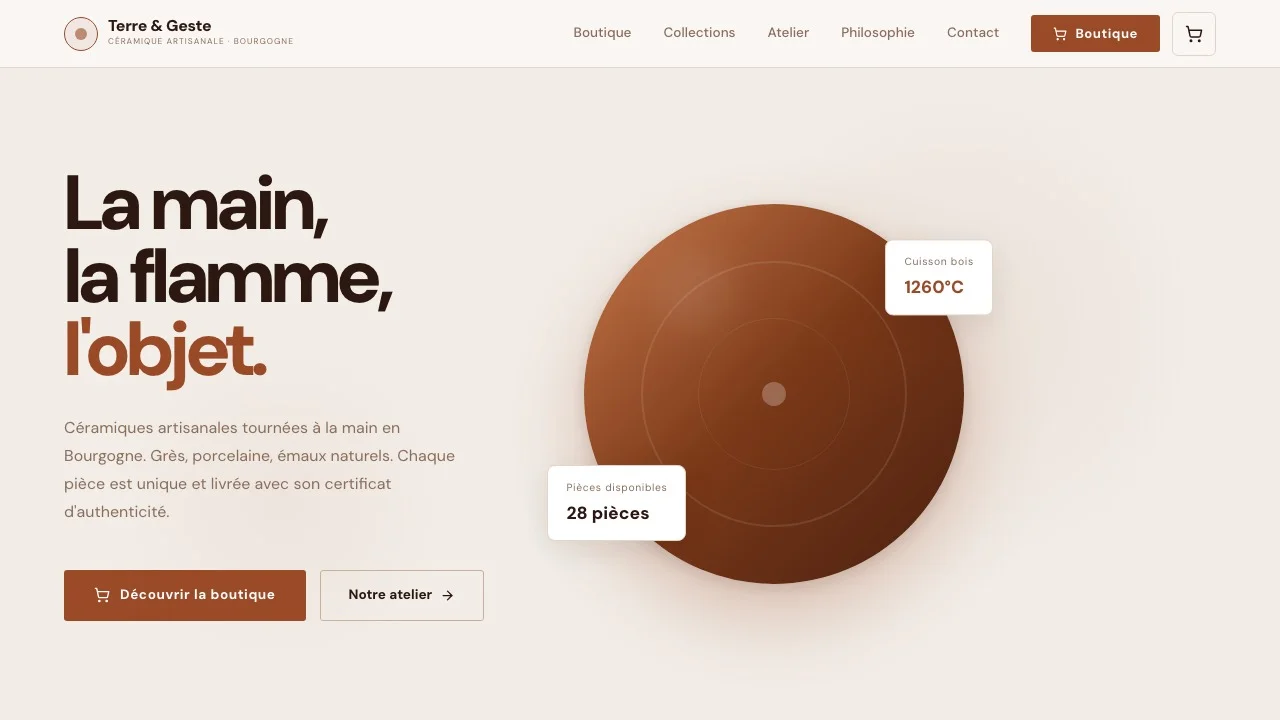
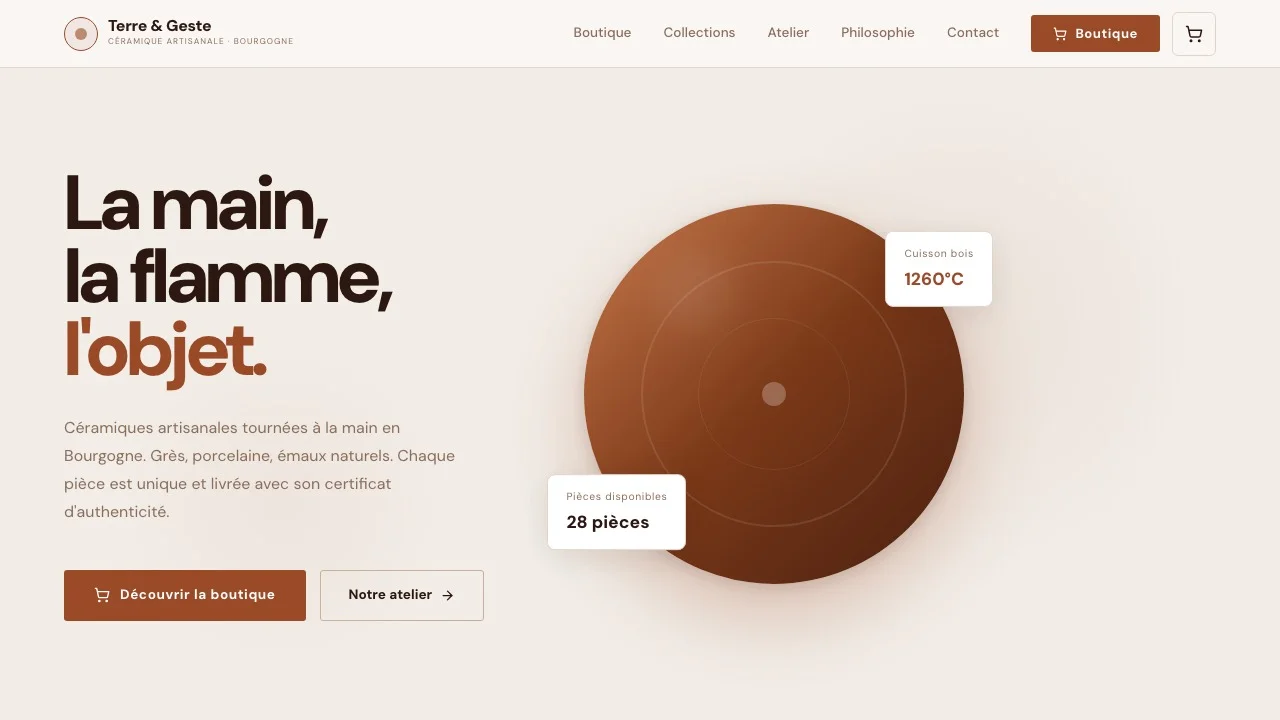
feat(images): l'atelier de céramique montre ses pièces
Le code d'impact-112 l'avouait : « Image placeholder with gradient ».
Une boutique de céramique affichait six dégradés de terre cuite à la
place de ses pièces. Ce sont maintenant des photographies — potier au
tour, alignements de bols, vaisselle sur étagère. La photo du client
passe avant.

Les trois erreurs de type de ce fichier préexistent : même compte avant
et après.

Une jauge de plus écartée : chercher « placeholder » dans le code
remontait onze thèmes, dont dix étaient des champs de formulaire écrits
« placeholder: "Votre nom" » — la forme en propriété d'objet, que mon
filtre ne visait pas. En exigeant qu'un mot d'image figure sur la même
ligne, il n'en reste qu'un : celui-ci.

Changed region(s): [[0.4062, 0.6417, 0.5312, 0.7639], [0.6875, 0.3056, 0.7812, 0.4583]]

diff --git a/app/templates/impact-112/page.tsx b/app/templates/impact-112/page.tsx
@@ -115,6 +115,7 @@ function PRODUCTS_SOURCE_LIVE() {
     badge: "Nouveau",
     desc: "Forme asymétrique née du hasard de la cuisson. Chaque pièce est unique. Parfait pour le café du matin ou les céréales en famille.",
     gradient: "linear-gradient(135deg, #D4845A 0%, #9B4A28 100%)",
+    photo: "https://images.pexels.com/photos/37301842/pexels-photo-37301842.jpeg?auto=compress&cs=tinysrgb&w=1600",
   },
   {
     id: "p2",
@@ -127,6 +128,7 @@ function PRODUCTS_SOURCE_LIVE() {
     badge: "",
     desc: "Silhouette élancée pour fleurs séchées ou branches. Finition satiné mat ivoire sur grès blanc.",
     gradient: "linear-gradient(135deg, #E8D5C4 0%, #C8A080 100%)",
+    photo: "https://images.pexels.com/photos/34004100/pexels-photo-34004100.jpeg?auto=compress&cs=tinysrgb&w=1600",
   },
   {
     id: "p3",
@@ -139,6 +141,7 @@ function PRODUCTS_SOURCE_LIVE() {
     badge: "Best-seller",
     desc: "Grand plat de service aux bords irréguliers. Passe au lave-vaisselle. Livré avec certificat d'authenticité.",
     gradient: "linear-gradient(135deg, #C8B09A 0%, #8B5A3A 100%)",
+    photo: "https://images.pexels.com/photos/8063867/pexels-photo-8063867.jpeg?auto=compress&cs=tinysrgb&w=1600",
   },
   {
     id: "p4",
@@ -151,6 +154,7 @@ function PRODUCTS_SOURCE_LIVE() {
     badge: "",
     desc: "Légère, confortable en main, résistante. Existe en cinq couleurs de glaçure. Sans poignée, dans la tradition japonaise.",
     gradient: "linear-gradient(135deg, #B8906A 0%, #7A4A2A 100%)",
+    photo: "https://images.pexels.com/photos/33633350/pexels-photo-33633350.jpeg?auto=compress&cs=tinysrgb&w=1600",
   },
   {
     id: "p5",
@@ -163,6 +167,7 @@ function PRODUCTS_SOURCE_LIVE() {
     badge: "",
     desc: "Conçu pour les herbes en cuisine. Résistant au gel. Percé pour le drainage. Compatible intérieur-extérieur.",
     gradient: "linear-gradient(135deg, #A8784A 0%, #6B3A1E 100%)",
+    photo: "https://images.pexels.com/photos/18373966/pexels-photo-18373966.jpeg?auto=compress&cs=tinysrgb&w=1600",
   },
   {
     id: "p6",
@@ -175,6 +180,7 @@ function PRODUCTS_SOURCE_LIVE() {
     badge: "Collector",
     desc: "Forme inspirée des amphores antiques. Parfaite pour le vin, l'eau infusée ou les fleurs. Signée au fond.",
     gradient: "linear-gradient(135deg, #D4A070 0%, #9B5020 100%)",
+    photo: "https://images.pexels.com/photos/33878964/pexels-photo-33878964.jpeg?auto=compress&cs=tinysrgb&w=1600",
   },
 ]);
 }
@@ -406,12 +412,16 @@ function ProductCard({
         </div>
       )}
 
-      {/* Image placeholder with gradient */}
+      {/* Le code l'avouait : « Image placeholder with gradient ». Un atelier de
+          céramique montrait un dégradé de terre cuite à la place de ses pièces.
+          La photo du client passe avant celle de la démonstration. */}
       <div
         style={{
           width: "100%",
           height: 220,
-          background: p.gradient,
+          backgroundImage: `url(${p.photo})`,
+          backgroundSize: "cover",
+          backgroundPosition: "center",
           position: "relative",
           overflow: "hidden",
         }}
